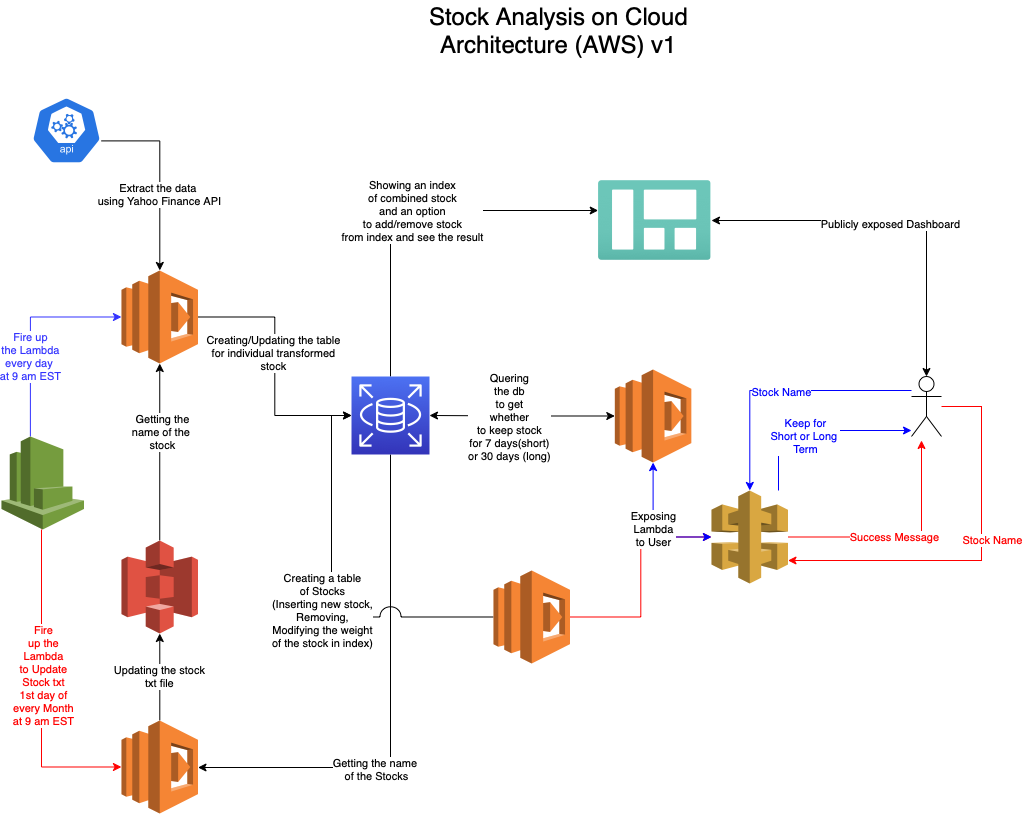
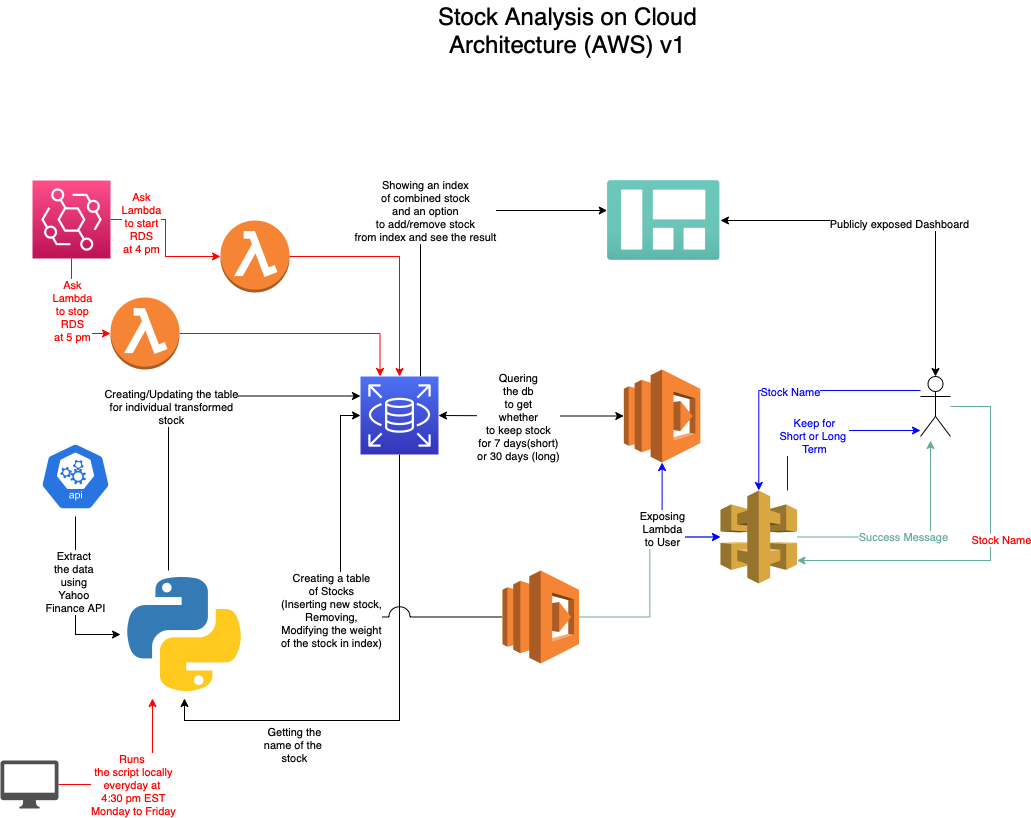
Added automation by eventbridge and cronjob, updated flowchart, readme update pending

diff --git a/stoprdsLambda/lambda_function.py b/stoprdsLambda/lambda_function.py
@@ -1,0 +1,81 @@
+# this Code will help to schedule stop the RDS databasrs using Lambda
+# Yesh 
+# Version -- 2.0
+
+import boto3
+import os
+import sys
+import time
+from datetime import datetime, timezone
+from time import gmtime, strftime
+
+def shut_rds_all():
+    region=os.environ['REGION']
+    key=os.environ['KEY']
+    value=os.environ['VALUE']
+
+    
+    client = boto3.client('rds', region_name=region)
+    response = client.describe_db_instances()
+    v_readReplica=[]
+    for i in response['DBInstances']:
+        readReplica=i['ReadReplicaDBInstanceIdentifiers']
+        v_readReplica.extend(readReplica)
+    
+    for i in response['DBInstances']:
+#The if condition below filters aurora clusters from single instance databases as boto3 commands defer to stop the aurora clusters.
+        if i['Engine'] not in ['aurora-mysql','aurora-postgresql']:
+#The if condition below filters Read replicas.
+            if i['DBInstanceIdentifier'] not in v_readReplica and len(i['ReadReplicaDBInstanceIdentifiers']) == 0:
+                arn=i['DBInstanceArn']
+                resp2=client.list_tags_for_resource(ResourceName=arn)
+#check if the RDS instance is part of the Auto-Shutdown group.
+                if 0==len(resp2['TagList']):
+                    print('DB Instance {0} is not part of autoshutdown'.format(i['DBInstanceIdentifier']))
+                else:
+                    for tag in resp2['TagList']:
+#If the tags match, then stop the instances by validating the current status.
+                        if tag['Key']==key and tag['Value']==value:
+                            if i['DBInstanceStatus'] == 'available':
+                                client.stop_db_instance(DBInstanceIdentifier = i['DBInstanceIdentifier'])
+                                print('stopping DB instance {0}'.format(i['DBInstanceIdentifier']))
+                            elif i['DBInstanceStatus'] == 'stopped':
+                                print('DB Instance {0} is already stopped'.format(i['DBInstanceIdentifier']))
+                            elif i['DBInstanceStatus']=='starting':
+                                print('DB Instance {0} is in starting state. Please stop the cluster after starting is complete'.format(i['DBInstanceIdentifier']))
+                            elif i['DBInstanceStatus']=='stopping':
+                                print('DB Instance {0} is already in stopping state.'.format(i['DBInstanceIdentifier']))
+                        elif tag['Key']!=key and tag['Value']!=value:
+                            print('DB instance {0} is not part of autoshutdown'.format(i['DBInstanceIdentifier']))
+                        elif len(tag['Key']) == 0 or len(tag['Value']) == 0:
+                            print('DB Instance {0} is not part of auroShutdown'.format(i['DBInstanceIdentifier']))
+            elif i['DBInstanceIdentifier'] in v_readReplica:
+                print('DB Instance {0} is a Read Replica. Cannot shutdown a Read Replica instance'.format(i['DBInstanceIdentifier']))
+            else:
+                print('DB Instance {0} has a read replica. Cannot shutdown a database with Read Replica'.format(i['DBInstanceIdentifier']))
+
+    response=client.describe_db_clusters()
+    for i in response['DBClusters']:
+        cluarn=i['DBClusterArn']
+        resp2=client.list_tags_for_resource(ResourceName=cluarn)
+        if 0==len(resp2['TagList']):
+            print('DB Cluster {0} is not part of autoshutdown'.format(i['DBClusterIdentifier']))
+        else:
+            for tag in resp2['TagList']:
+                if tag['Key']==key and tag['Value']==value:
+                    if i['Status'] == 'available':
+                        client.stop_db_cluster(DBClusterIdentifier=i['DBClusterIdentifier'])
+                        print('stopping DB cluster {0}'.format(i['DBClusterIdentifier']))
+                    elif i['Status'] == 'stopped':
+                        print('DB Cluster {0} is already stopped'.format(i['DBClusterIdentifier']))
+                    elif i['Status']=='starting':
+                        print('DB Cluster {0} is in starting state. Please stop the cluster after starting is complete'.format(i['DBClusterIdentifier']))
+                    elif i['Status']=='stopping':
+                        print('DB Cluster {0} is already in stopping state.'.format(i['DBClusterIdentifier']))
+                elif tag['Key'] != key and tag['Value'] != value:
+                    print('DB Cluster {0} is not part of autoshutdown'.format(i['DBClusterIdentifier']))
+                else:
+                    print('DB Instance {0} is not part of auroShutdown'.format(i['DBClusterIdentifier']))
+
+def lambda_handler(event, context):
+    shut_rds_all()

diff --git a/rdsstartLambda/lambda_function.py b/rdsstartLambda/lambda_function.py
@@ -1,0 +1,79 @@
+# this Code will help to schedule start the RDS databasrs using Lambda
+# Yesh 
+# Version -- 2.0
+
+import boto3
+import os
+import sys
+import time
+from datetime import datetime, timezone
+from time import gmtime, strftime
+
+def start_rds_all():
+    region=os.environ['REGION']
+    key=os.environ['KEY']
+    value=os.environ['VALUE']
+    client = boto3.client('rds', region_name=region)
+    response = client.describe_db_instances()
+
+    v_readReplica=[]
+    for i in response['DBInstances']:
+        readReplica=i['ReadReplicaDBInstanceIdentifiers']
+        v_readReplica.extend(readReplica)
+    
+    for i in response['DBInstances']:
+#The if condition below filters aurora clusters from single instance databases as boto3 commands defer to start the aurora clusters.
+        if i['Engine'] not in ['aurora-mysql','aurora-postgresql']:
+#The if condition below filters Read replicas.
+            if i['DBInstanceIdentifier'] not in v_readReplica and len(i['ReadReplicaDBInstanceIdentifiers']) == 0:
+                arn=i['DBInstanceArn']
+                resp2=client.list_tags_for_resource(ResourceName=arn)
+#check if the RDS instance is part of the Auto-Shutdown group.
+                if 0==len(resp2['TagList']):
+                    print('DB Instance {0} is not part of autoshutdown'.format(i['DBInstanceIdentifier']))
+                else:
+                    for tag in resp2['TagList']:
+                        if tag['Key']==key and tag['Value']==value:
+                            if i['DBInstanceStatus'] == 'available':
+                                print('{0} DB instance is already available'.format(i['DBInstanceIdentifier']))
+                            elif i['DBInstanceStatus'] == 'stopped':
+                                client.start_db_instance(DBInstanceIdentifier = i['DBInstanceIdentifier'])
+                                print('Started DB Instance {0}'.format(i['DBInstanceIdentifier']))
+                            elif i['DBInstanceStatus']=='starting':
+                                print('DB Instance {0} is already in starting state'.format(i['DBInstanceIdentifier']))
+                            elif i['DBInstanceStatus']=='stopping':
+                                print('DB Instance {0} is in stopping state. Please wait before starting'.format(i['DBInstanceIdentifier']))
+                        elif tag['Key']!=key and tag['Value']!=value:
+                            print('DB instance {0} is not part of autoshutdown'.format(i['DBInstanceIdentifier']))
+                        elif len(tag['Key']) == 0 or len(tag['Value']) == 0:
+                            print('DB Instance {0} is not part of autoShutdown'.format(i['DBInstanceIdentifier']))
+            elif i['DBInstanceIdentifier'] in v_readReplica:
+                print('DB Instance {0} is a Read Replica.'.format(i['DBInstanceIdentifier']))
+            else:
+                print('DB Instance {0} has a read replica. Cannot shutdown & start a database with Read Replica'.format(i['DBInstanceIdentifier']))
+
+    response=client.describe_db_clusters()
+    for i in response['DBClusters']:
+        cluarn=i['DBClusterArn']
+        resp2=client.list_tags_for_resource(ResourceName=cluarn)
+        if 0==len(resp2['TagList']):
+            print('DB Cluster {0} is not part of autoshutdown'.format(i['DBClusterIdentifier']))
+        else:
+            for tag in resp2['TagList']:
+                if tag['Key']==key and tag['Value']==value:
+                    if i['Status'] == 'available':
+                        print('{0} DB Cluster is already available'.format(i['DBClusterIdentifier']))
+                    elif i['Status'] == 'stopped':
+                        client.start_db_cluster(DBClusterIdentifier=i['DBClusterIdentifier'])
+                        print('Started Cluster {0}'.format(i['DBClusterIdentifier']))
+                    elif i['Status']=='starting':
+                        print('cluster {0} is already in starting state.'.format(i['DBClusterIdentifier']))
+                    elif i['Status']=='stopping':
+                        print('cluster {0} is in stopping state. Please wait before starting'.format(i['DBClusterIdentifier']))
+                elif tag['Key'] != key and tag['Value'] != value:
+                    print('DB Cluster {0} is not part of autoshutdown'.format(i['DBClusterIdentifier']))
+                else:
+                    print('DB Instance {0} is not part of autoShutdown'.format(i['DBClusterIdentifier']))
+
+def lambda_handler(event, context):
+    start_rds_all()

diff --git a/stock.py b/stock.py
@@ -13,7 +13,7 @@ def insert(ticker):
 	df = stock.history(period="1d").reset_index()
 
 	# Converting and only choosing Date, Open, High, Low and Close Value
-	dfl = list(df.iloc[0,:5])
+	dfl = list(df.iloc[0,:6])
 
 	# Converting datetime to string and rounding all other values up to 4 precision points
 	dfl[0] = str(dfl[0])
@@ -23,24 +23,31 @@ def insert(ticker):
     # Preparing insert string piece
 	s = str(dfl).replace('[','').replace(']','')
 
+	s2 = " , NULL, NULL, NULL"
+
     # Forming an INSERT Query
-	insert = 'INSERT IGNORE INTO '+str(ticker)+ "("+s + ");"
+	insert = 'INSERT INTO '+str(ticker)+ " VALUES ("+s + s2 + ");"
 
 	return insert
 
 def createStockTable(ticker):
 	pre = "CREATE TABLE IF NOT EXISTS "
 	post = """
-		(DateEntry DATETIME PRIMARY KEY,
-		Open FLOAT NOT NULL,
-		High FLOAT NOT NULL,
-		Low FLOAT NOT NULL,
-		Close FLOAT NOT NULL,
-		Volume FLOAT NOT NULL,
-		OneDayChange FLOAT,
-		OneWeekChange FLOAT,
-		OneMonthChange FLOAT
+		( 
+		DateEntry DATETIME PRIMARY KEY,
+		Open DECIMAL(19,4) NOT NULL,
+		High DECIMAL(19,4) NOT NULL,
+		Low DECIMAL(19,4) NOT NULL,
+		Close DECIMAL(19,4) NOT NULL,
+		Volume DECIMAL(19,4) NOT NULL,
+		OneDayChange DECIMAL(19,4),
+		OneWeekChange DECIMAL(19,4),
+		OneMonthChange DECIMAL(19,4)
 		);
 	"""
 
 	return (pre + ticker + post)
+
+def dropTable(ticker):
+	pre = "DROP TABLE "
+	return (pre + ticker + ";")

diff --git a/updateIndiStock.py b/updateIndiStock.py
@@ -5,6 +5,8 @@ import pymysql
 import stock as s
 import config_stockAnalysis as csa
 
+from datetime import date
+
 def main():
 
 	# rds settings
@@ -26,24 +28,19 @@ def main():
 		cur.execute(temp)
 		conn.commit()
         
-		# for row in cur:
-		# 	cur.execute(s.createStockTable(row[0]))
-		# 	cur.execute(s.insert(row[0]))
-		# 	conn.commit()
-		
-		# conn.commit()
-
-		t2 = "Select * from Stock"
-		cur.execute(t2)
-
 		for row in cur:
-			print(row)
-
-	# This stockName should be read from some file
-	# stockName = "AAPL"
+			cur.execute(s.createStockTable(row[0]))
+			cur.execute(s.insert(row[0]))
+			conn.commit()
+		
+		conn.commit()
 	
-	# print(s.createStockTable(stockName))
-	# print(s.insert(stockName))
+	f = open("log_updateStock.txt", "a")
+	today = date.today()
+	f.write("\nToday's date: " + str(today))
+	f.close()
+
+
 	return
 
 if __name__ == "__main__":
